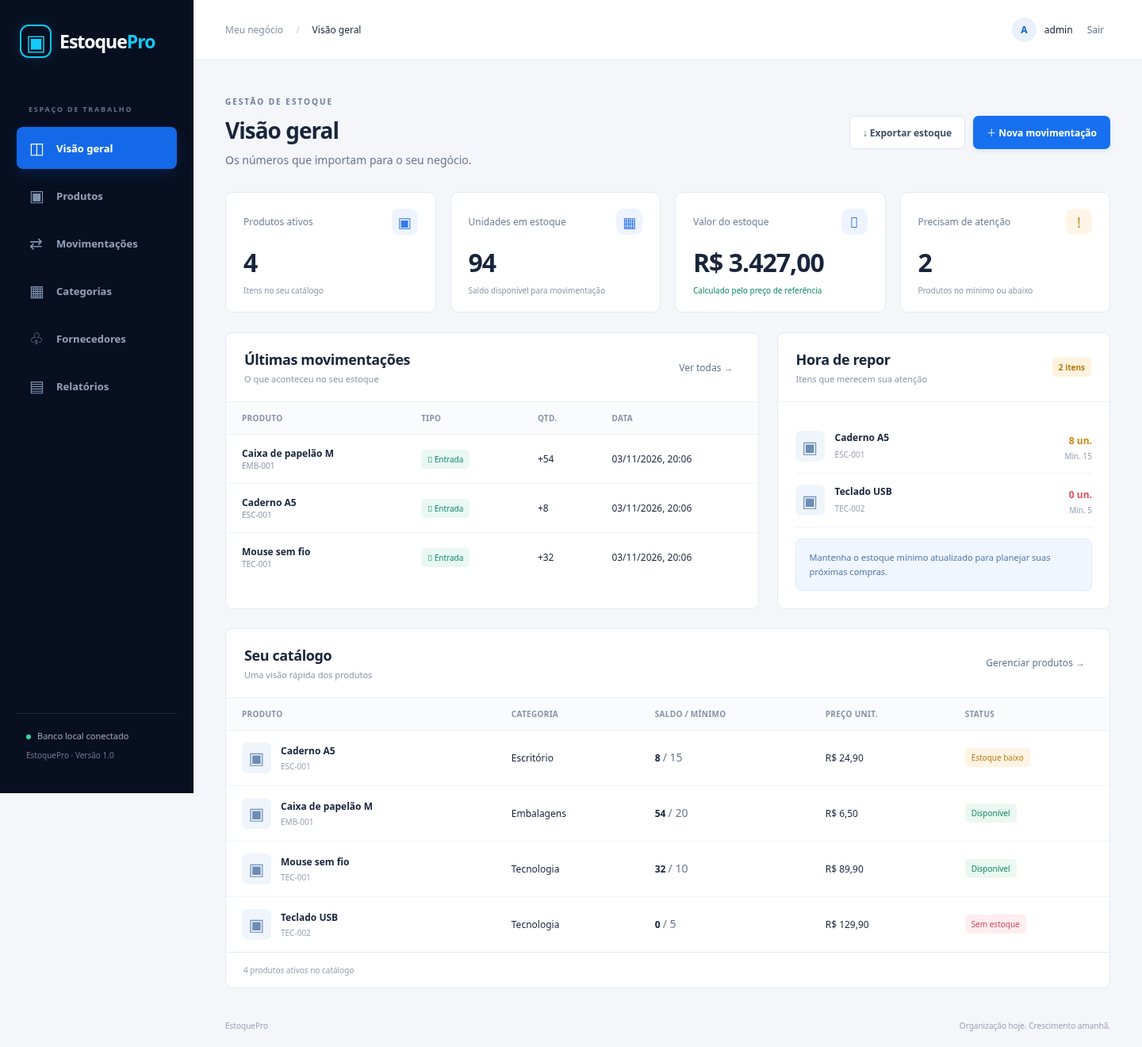
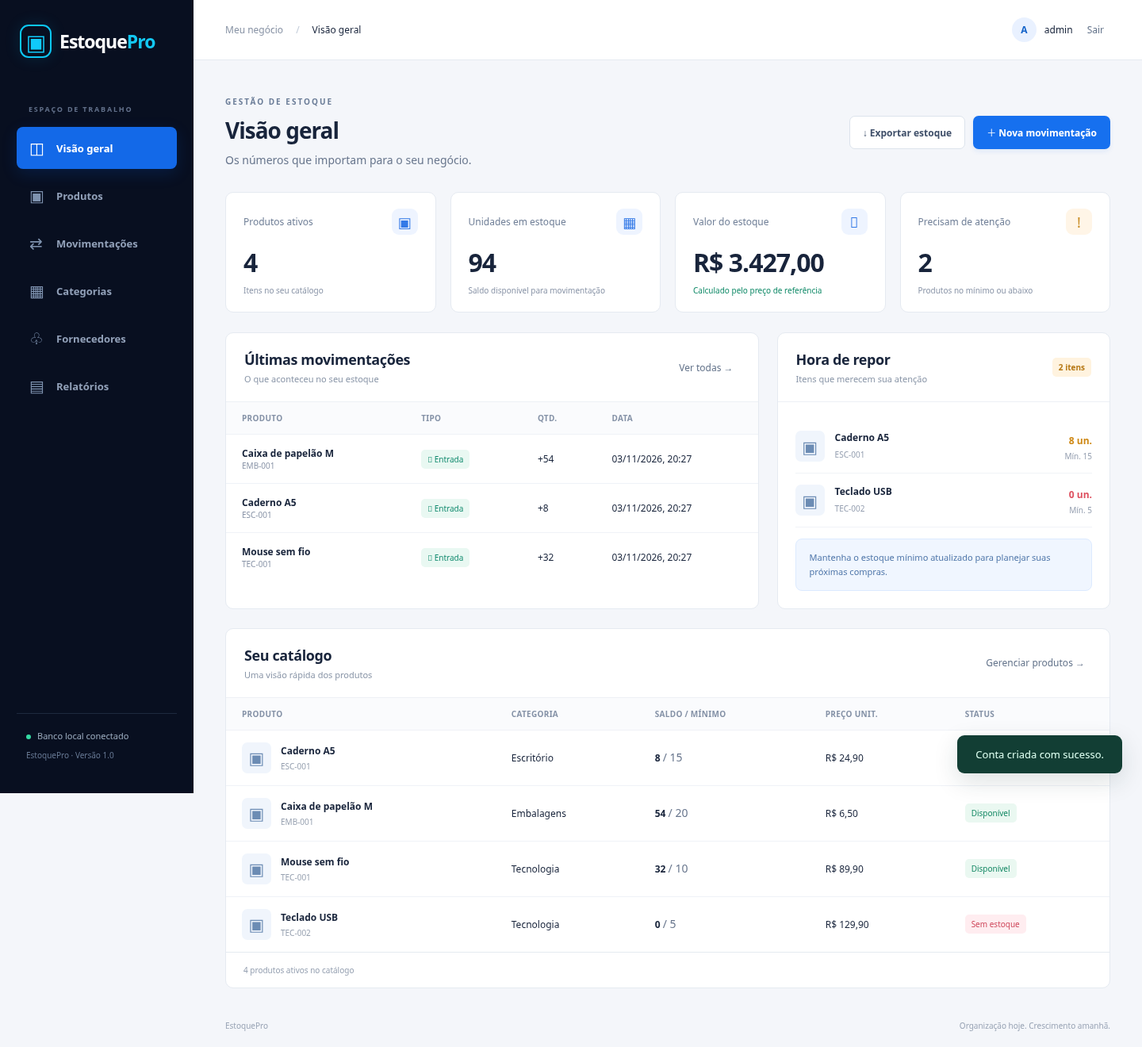
fix: corrigir acesso demo existente e adicionar cadastro de usuarios

Changed region(s): [[0.8125, 0.6833, 1.0, 0.7455]]

diff --git a/src/estoquepro/static/style.css b/src/estoquepro/static/style.css
@@ -1,1 +1,3 @@
 :root{font-family:Inter,ui-sans-serif,system-ui,-apple-system,BlinkMacSystemFont,"Segoe UI",sans-serif;color:#18243b;background:#f4f6fa;font-synthesis:none;--blue:#1670ef;--navy:#080f20;--muted:#68768d;--line:#e5eaf1}*{box-sizing:border-box}body{margin:0}button,input,select{font:inherit}button,a,input,select{outline-offset:4px}button,a{touch-action:manipulation}button{cursor:pointer}a{color:inherit;text-decoration:none}[hidden]{display:none!important}.brand{display:flex;align-items:center;gap:10px;font-size:23px;font-weight:750;letter-spacing:-1px;color:white}.brand strong{color:#13c8f3}.brand-mark{display:grid;place-items:center;border:2px solid #0cc8f6;color:#10cafa;border-radius:11px;font-size:27px;width:40px;height:42px;box-shadow:0 0 20px #09cafa20}.eyebrow{font-size:10px!important;font-weight:800;letter-spacing:2px;color:#6b7d98;margin:0 0 10px}.muted{color:var(--muted);font-size:14px;line-height:1.6}.sidebar{width:244px;background:var(--navy);color:#91a0b8;position:fixed;inset:0 auto 0 0;padding:31px 21px;display:flex;flex-direction:column}.sidebar .brand{margin:0 0 49px 4px}.nav-caption{font-size:9px;font-weight:700;letter-spacing:1.8px;padding-left:15px;margin-bottom:16px;color:#62708a}nav{display:grid;gap:7px}nav a{display:flex;align-items:center;gap:14px;font-size:13px;font-weight:550;padding:13px 16px;border-radius:8px}nav a span{font-size:20px;width:20px;color:#7e92af}nav a:hover{background:#131f36;color:white}nav a.active{background:#1369e8;color:white;box-shadow:0 6px 20px #006eff26}nav a.active span{color:white}.sidebar-bottom{margin-top:auto;padding:20px 12px 0;border-top:1px solid #1d293e;font-size:10px;color:#677994}.live-dot{font-size:11px;color:#9babbe}.live-dot:before{content:"";display:inline-block;width:6px;height:6px;border-radius:50%;background:#34d9a3;margin-right:8px}main{margin-left:244px;min-height:100vh;display:flex;flex-direction:column}.topbar{height:76px;background:white;border-bottom:1px solid var(--line);padding:0 40px;display:flex;justify-content:space-between;align-items:center;font-size:12px}.breadcrumb{color:#8893a5}.slash{margin:0 16px;color:#c2cbd8}.account{display:flex;align-items:center;gap:10px}.avatar{display:grid;place-items:center;width:31px;height:31px;border-radius:50%;background:#e9f1ff;color:#1463c9;font-weight:750}.text-button{border:0;background:none;color:#64748b;font-size:12px;padding:8px}.content{padding:35px 40px 20px;max-width:1600px;width:100%;margin:0 auto;flex:1}.page-heading{display:flex;align-items:center;justify-content:space-between;gap:20px;margin-bottom:29px}h1{font-size:28px;letter-spacing:-1px;margin:0;font-weight:720}.page-heading .muted{margin:8px 0 0}h2{font-size:18px;letter-spacing:-.4px;margin:0}h3{font-size:14px;margin:0}.actions{display:flex;gap:10px}.primary,.secondary{display:inline-flex;align-items:center;justify-content:center;gap:10px;border-radius:7px;padding:11px 16px;font-size:12px;font-weight:650;border:1px solid transparent}.primary{background:var(--blue);color:white;box-shadow:0 3px 6px #0869e817}.primary:hover{background:#095dd3}.secondary{background:white;border-color:#dce3ec;color:#40506a}.secondary:hover{background:#f2f5fa}button:disabled{opacity:.55;cursor:wait}.metrics{display:grid;grid-template-columns:repeat(4,1fr);gap:18px;margin-bottom:25px}.metric{background:white;border:1px solid var(--line);border-radius:10px;padding:20px 22px}.metric-top{display:flex;justify-content:space-between;align-items:center;color:#718098;font-size:12px}.metric-icon{border-radius:9px;background:#eef4ff;color:#3379e7;width:33px;height:33px;display:grid;place-items:center;font-size:18px}.metric-icon.amber{background:#fff5e7;color:#c88b21}.metric-number{font-size:28px;font-weight:750;letter-spacing:-1px;margin:13px 0 7px;white-space:nowrap}.metric-note{font-size:10px;color:#8a95a8}.metric-note.green{color:#128b69}.dashboard-grid{display:grid;grid-template-columns:1.6fr 1fr;gap:23px;margin-bottom:24px}.panel{background:white;border:1px solid var(--line);border-radius:10px;overflow:hidden}.panel-heading{display:flex;justify-content:space-between;align-items:center;padding:21px 23px;border-bottom:1px solid #edf0f5;gap:12px}.panel-heading p{font-size:11px;color:#8a96a8;margin:5px 0 0}.panel-body{padding:22px}.chip{border-radius:5px;background:#fff3df;color:#b77916;font-size:10px;font-weight:700;padding:5px 8px;white-space:nowrap}.stock-alert{display:flex;align-items:center;gap:13px;padding:14px 0;border-bottom:1px solid #f0f3f7}.stock-alert:last-child{border:0}.product-icon{display:grid;place-items:center;width:37px;height:39px;flex-shrink:0;border-radius:7px;background:#f0f5fc;color:#6c8cb4;font-size:21px}.stock-alert strong{font-size:12px;display:block;font-weight:650}.stock-alert small{font-size:10px;color:#96a0b1}.stock-alert .stock-amount{margin-left:auto;text-align:right}.stock-amount b{color:#cf8a18;font-size:12px}.stock-amount small{display:block;margin-top:3px}.stock-amount.zero b{color:#de5261}.notice{background:#f0f6ff;border:1px solid #dceaff;border-radius:8px;padding:14px 17px;font-size:11px;color:#5077aa;margin-top:14px;line-height:1.6}.table-wrap{overflow-x:auto}table{width:100%;border-collapse:collapse;text-align:left;font-size:12px}th{font-weight:550;font-size:10px;letter-spacing:.3px;color:#8592a7;background:#fafbfd;padding:13px 20px;white-space:nowrap}td{padding:15px 20px;border-top:1px solid #eff2f7;vertical-align:middle}tbody tr:hover{background:#fcfdff}.product-cell{display:flex;align-items:center;gap:12px}.product-cell strong{display:block;font-size:12px}.product-cell small{display:block;color:#98a2b1;font-size:10px;margin-top:4px}.badge{display:inline-block;font-size:10px;border-radius:5px;padding:5px 8px;white-space:nowrap}.badge.ok{color:#148864;background:#eaf8f1}.badge.low{color:#b97a1c;background:#fff4e3}.badge.zero{color:#cf4a5d;background:#ffedf0}.badge.in{color:#138b6f;background:#e9f8f2}.badge.out{color:#d57532;background:#fff2e7}.table-footer{font-size:10px;color:#95a0b1;padding:15px 22px;border-top:1px solid var(--line)}.toolbar{display:flex;gap:12px;padding:18px 22px;border-bottom:1px solid var(--line);flex-wrap:wrap}.toolbar input{flex:1;min-width:170px}.toolbar select{width:auto;max-width:240px}.toolbar label{display:flex;align-items:center;gap:7px;font-size:12px;color:#718096;margin:0;white-space:nowrap}.toolbar input[type=checkbox]{width:auto;min-width:0}.row-actions{display:flex;gap:9px}.row-actions button{background:transparent;border:0;color:#2879df;font-size:11px;padding:5px}.row-actions button.danger{color:#c8596a}.empty{padding:42px 20px;text-align:center;color:#7f8ea4;font-size:13px;line-height:1.7}.empty b{display:block;color:#445875;font-size:15px;margin-bottom:8px}.loading{padding:40px;color:#6e86aa}.summary-banner{border-radius:10px;padding:25px;background:linear-gradient(115deg,#0d234b,#134b8b);color:white;display:flex;justify-content:space-between;align-items:center;margin-bottom:24px}.summary-banner p{font-size:12px;line-height:1.8;color:#abc5e6;margin:8px 0 0}.summary-banner .eyebrow{color:#71caf3}.report-card{padding:27px;max-width:760px}.report-card p{color:#7a879c;font-size:13px;line-height:1.8;margin:13px 0 22px}.lookup-grid{display:grid;grid-template-columns:repeat(3,1fr);gap:16px}.lookup-card{padding:23px;background:white;border:1px solid var(--line);border-radius:10px;display:flex;align-items:center;gap:15px}.lookup-card p{font-size:11px;color:#8b99ac;margin:6px 0 0}footer{padding:20px 40px;color:#99a4b5;font-size:10px;display:flex;justify-content:space-between}label{display:grid;gap:7px;font-size:12px;font-weight:600;color:#506079;margin:16px 0}input,select{border:1px solid #dce3ee;border-radius:6px;padding:11px 12px;background:white;color:#263850;width:100%;min-width:0}input:focus,select:focus{border-color:#3181f3;outline:2px solid #3181f32a}input::placeholder{color:#acb5c4;font-size:12px}.form-grid{display:grid;grid-template-columns:1fr 1fr;gap:0 16px}.form-help{font-size:11px;color:#8797ad;line-height:1.7}.error{font-size:12px;color:#c73e54;line-height:1.5;min-height:0}.error:empty{display:none}dialog{border:1px solid var(--line);border-radius:14px;padding:0;width:520px;max-width:calc(100vw - 30px);box-shadow:0 30px 100px #05122940;max-height:90vh;overflow:auto}dialog::backdrop{background:#060f24a3;backdrop-filter:blur(3px)}dialog form{padding:27px}.modal-heading{display:flex;justify-content:space-between;align-items:start;margin-bottom:18px}.modal-footer{display:flex;justify-content:flex-end;gap:10px;margin-top:24px;padding-top:20px;border-top:1px solid var(--line)}.icon-button{border:0;background:#f0f4f9;color:#7d8ba1;width:30px;height:30px;border-radius:7px;font-size:23px}.toast{position:fixed;bottom:25px;right:25px;background:#123e34;color:#dcfff0;padding:15px 23px;border-radius:9px;box-shadow:0 10px 30px #122e3325;z-index:20;font-size:13px}.toast.failure{background:#762538}.login-screen{display:grid;grid-template-columns:1.1fr 1fr;min-height:100vh}.login-intro{background:radial-gradient(ellipse at 70% 60%,#073b6f55,transparent 60%),#080f20;color:white;padding:60px 12%;display:flex;flex-direction:column;align-items:flex-start}.login-intro .brand{margin-bottom:70px}.login-intro .eyebrow{color:#15c1ec}.login-intro h1{font-size:44px;line-height:1.15;letter-spacing:-1.8px}.login-intro>p:not(.eyebrow){font-size:14px;line-height:1.9;color:#91a4c0;max-width:330px}.login-intro>small{margin-top:auto;color:#627997;font-size:10px;padding-top:25px}.intro-art{width:100%;max-width:340px;height:220px;margin:20px 0;position:relative;border:1px solid #123c67;border-radius:20px;background:linear-gradient(135deg,#13356655,#06234055);display:flex;align-items:center;justify-content:space-evenly}.intro-art>span{font-size:130px;color:#13bde8;line-height:1}.art-bars{height:100px;display:flex;align-items:end;gap:9px}.art-bars i{display:block;width:18px;background:linear-gradient(#12d8e5,#0669ee);border-radius:4px}.art-bars i:nth-child(1){height:35%}.art-bars i:nth-child(2){height:58%}.art-bars i:nth-child(3){height:78%}.art-bars i:nth-child(4){height:100%}.intro-art>b{position:absolute;bottom:15px;left:22px;font-size:11px;color:#68d4b4;letter-spacing:.5px}.login-panel{display:flex;align-items:center;justify-content:center;padding:50px;background:white}.login-panel form{width:100%;max-width:355px}.login-panel h2{font-size:27px}.login-panel .primary{width:100%;justify-content:space-between;margin-top:12px;font-size:13px;padding:14px 17px}.login-panel .muted{margin-bottom:30px}.login-foot{text-align:center;color:#9fa9b8;font-size:10px;margin-top:28px}@media(min-width:1400px){.content{padding-top:45px}.metric-number{font-size:32px}}@media(max-width:1100px){.sidebar{width:205px;padding-left:13px;padding-right:13px}.sidebar .brand{font-size:20px}main{margin-left:205px}.content{padding:28px 24px}.topbar{padding:0 24px}.metrics{gap:11px}.metric{padding:17px 15px}.metric-number{font-size:23px}.dashboard-grid{grid-template-columns:1fr}.lookup-grid{grid-template-columns:repeat(2,1fr)}}@media(max-width:720px){.sidebar{position:static;width:auto;padding:17px 16px}.sidebar .brand{margin:0 0 17px}.nav-caption,.sidebar-bottom{display:none}nav{display:flex;overflow:auto;gap:5px}nav a{font-size:11px;padding:9px 10px;white-space:nowrap}nav a span{font-size:17px;width:auto}main{margin:0}.topbar{height:58px;padding:0 18px}.content{padding:25px 16px}.page-heading{align-items:flex-start;flex-direction:column;gap:16px}h1{font-size:26px}.metrics{grid-template-columns:repeat(2,1fr);gap:12px}.metric-number{font-size:26px}.metric-top{font-size:11px}.dashboard-grid{gap:17px}.panel-heading{padding:18px 16px}.panel-body{padding:15px}.summary-banner{padding:21px;gap:20px}.summary-banner .secondary{white-space:nowrap}.summary-banner h2{font-size:16px}.lookup-grid{grid-template-columns:1fr}.toolbar{padding:15px}.toolbar select{flex:1}.form-grid{grid-template-columns:1fr}footer{padding:20px 16px;gap:20px;font-size:9px}.login-screen{grid-template-columns:1fr}.login-intro{padding:28px}.login-intro .brand{margin:0}.login-intro h1,.login-intro>p,.intro-art,.login-intro>small{display:none}.login-panel{padding:45px 28px}.toast{left:16px;right:16px;bottom:16px}.account{font-size:11px}.breadcrumb{display:none}.slash{display:none}}
+
+.auth-card{width:100%;max-width:355px}.auth-tabs{display:flex;gap:8px;border-bottom:1px solid var(--line);margin-bottom:30px}.auth-tabs button{flex:1;background:none;border:0;border-bottom:3px solid transparent;padding:13px;color:var(--muted);font-weight:650;font-size:13px}.auth-tabs button[aria-selected="true"]{color:var(--blue);border-bottom-color:var(--blue)}

diff --git a/src/estoquepro/static/index.html b/src/estoquepro/static/index.html
@@ -4,7 +4,7 @@
 <body>
 <section id="login-screen" class="login-screen">
   <div class="login-intro"><div class="brand"><span class="brand-mark">▣</span><span>Estoque<strong>Pro</strong></span></div><p class="eyebrow">CONTROLE QUE GERA CONFIANÇA</p><h1>Seu estoque.<br>Uma visão completa.</h1><p>Organize produtos, acompanhe movimentações e saiba quando repor. Tudo em um só lugar.</p><div class="intro-art" aria-hidden="true"><span aria-hidden="true">▣</span><div class="art-bars"><i></i><i></i><i></i><i></i></div><b>✓ Estoque sob controle</b></div><small>Projeto acadêmico A3 · Engenharia de Software</small></div>
-  <div class="login-panel"><form id="login-form"><p class="eyebrow">BEM-VINDO AO ESTOQUEPRO</p><h2>Acesse seu painel</h2><p class="muted">Entre para gerenciar seu estoque.</p><label>Usuário<input name="username" autocomplete="username" required maxlength="80" placeholder="Seu usuário"></label><label>Senha<input type="password" name="password" autocomplete="current-password" required maxlength="256" placeholder="Sua senha"></label><p id="login-error" class="error" role="alert"></p><button class="primary" type="submit">Entrar no sistema <span>→</span></button><p class="login-foot">Ambiente local · Dados armazenados em SQLite</p></form></div>
+  <div class="login-panel"><div class="auth-card"><div class="auth-tabs" role="tablist" aria-label="Acesso ao sistema"><button type="button" id="login-tab" role="tab" aria-selected="true" aria-controls="login-form">Entrar</button><button type="button" id="register-tab" role="tab" aria-selected="false" aria-controls="register-form" tabindex="-1">Cadastro</button></div><form id="login-form" role="tabpanel" aria-labelledby="login-tab"><p class="eyebrow">BEM-VINDO AO ESTOQUEPRO</p><h2>Acesse seu painel</h2><p class="muted">Entre para gerenciar seu estoque.</p><label>Usuário<input name="username" autocomplete="username" required maxlength="80" placeholder="Seu usuário"></label><label>Senha<input type="password" name="password" autocomplete="current-password" required maxlength="256" placeholder="Sua senha"></label><p id="login-error" class="error" role="alert"></p><button class="primary" type="submit">Entrar no sistema <span>→</span></button><p class="login-foot">Ambiente local · Dados armazenados em SQLite</p></form><form id="register-form" role="tabpanel" aria-labelledby="register-tab" hidden><p class="eyebrow">SEU PRIMEIRO ACESSO</p><h2>Crie sua conta</h2><p class="muted">Cadastre um usuário para acessar o estoque deste negócio.</p><label>Usuário<input name="username" autocomplete="username" required minlength="3" maxlength="32" pattern="[a-zA-Z0-9][a-zA-Z0-9_.-]{2,31}" placeholder="Ex.: seu.nome"></label><p class="form-help">De 3 a 32 caracteres, sem espaços ou acentos.</p><label>Senha<input type="password" name="password" autocomplete="new-password" required minlength="8" maxlength="256" placeholder="Mínimo de 8 caracteres"></label><label>Confirmar senha<input type="password" name="confirm_password" autocomplete="new-password" required minlength="8" maxlength="256" placeholder="Repita sua senha"></label><p id="register-error" class="error" role="alert"></p><button class="primary" type="submit">Criar conta e entrar <span aria-hidden="true">→</span></button><p class="login-foot">Contas deste ambiente compartilham o mesmo estoque.</p></form></div></div>
 </section>
 <div id="app" class="app" hidden>
   <aside class="sidebar"><a class="brand" href="#dashboard"><span class="brand-mark">▣</span><span>Estoque<strong>Pro</strong></span></a><p class="nav-caption">ESPAÇO DE TRABALHO</p><nav aria-label="Navegação principal"><a href="#dashboard" data-page="dashboard"><span aria-hidden="true">◫</span>Visão geral</a><a href="#products" data-page="products"><span aria-hidden="true">▣</span>Produtos</a><a href="#movements" data-page="movements"><span aria-hidden="true">⇄</span>Movimentações</a><a href="#categories" data-page="categories"><span aria-hidden="true">▦</span>Categorias</a><a href="#suppliers" data-page="suppliers"><span aria-hidden="true">♧</span>Fornecedores</a><a href="#reports" data-page="reports"><span aria-hidden="true">▤</span>Relatórios</a></nav><div class="sidebar-bottom"><div class="live-dot">Banco local conectado</div><p>EstoquePro · Versão 1.0</p></div></aside>

diff --git a/src/estoquepro/static/app.js b/src/estoquepro/static/app.js
@@ -10,7 +10,7 @@ async function api(path, method = 'GET', body) {
   const response = await fetch('/api/' + path, {method, headers: {'Content-Type': 'application/json', 'X-CSRF-Token': state.csrf}, body: body === undefined ? undefined : JSON.stringify(body)});
   const data = await response.json();
   if (!response.ok) {
-    if (response.status === 401 && path !== 'login') showLogin();
+    if (response.status === 401 && !['login', 'register'].includes(path)) showLogin();
     throw new Error(data.error || 'Não foi possível concluir a operação.');
   }
   return data;
@@ -19,15 +19,42 @@ function toast(message, failure = false) {
   const el = $('#toast'); el.textContent = message; el.className = 'toast' + (failure ? ' failure' : ''); el.hidden = false;
   clearTimeout(toast.timer); toast.timer = setTimeout(() => el.hidden = true, 5000);
 }
-function showLogin() { $('#app').hidden = true; $('#login-screen').hidden = false; state.csrf = ''; $('#modal').close(); }
+function showLogin() { $('#app').hidden = true; $('#login-screen').hidden = false; state.csrf = ''; selectAuthTab(false); $('#modal').close(); }
 function enter(session) {
-  state.csrf = session.csrf; $('#account-name').textContent = session.user.username;
+  state.csrf = session.csrf; $('#account-name').textContent = session.user.username; $('.avatar').textContent = session.user.username[0].toUpperCase();
   $('#login-screen').hidden = true; $('#app').hidden = false; loadPage();
 }
 $('#login-form').addEventListener('submit', async (event) => {
   event.preventDefault(); const button = event.target.querySelector('button'); button.disabled = true; $('#login-error').textContent = '';
   try { const data = Object.fromEntries(new FormData(event.target)); const session = await api('login', 'POST', data); event.target.reset(); enter(session); }
   catch (err) { $('#login-error').textContent = err.message; } finally { button.disabled = false; }
+});
+function selectAuthTab(register) {
+  $('#login-form').hidden = register; $('#register-form').hidden = !register;
+  for (const id of ['login', 'register']) {
+    const active = (id === 'register') === register;
+    $('#' + id + '-tab').setAttribute('aria-selected', String(active));
+    $('#' + id + '-tab').tabIndex = active ? 0 : -1;
+  }
+  $('#login-error').textContent = ''; $('#register-error').textContent = '';
+}
+$('#login-tab').onclick = () => selectAuthTab(false);
+$('#register-tab').onclick = () => selectAuthTab(true);
+$('.auth-tabs').addEventListener('keydown', event => {
+  if (['ArrowLeft', 'ArrowRight', 'Home', 'End'].includes(event.key)) {
+    event.preventDefault();
+    const register = event.key === 'End' || (event.key !== 'Home' && $('#register-form').hidden);
+    selectAuthTab(register); $('#' + (register ? 'register' : 'login') + '-tab').focus();
+  }
+});
+$('#register-form').addEventListener('input', () => { $('#register-error').textContent = ''; });
+$('#register-form').addEventListener('submit', async event => {
+  event.preventDefault(); const button = event.target.querySelector('button');
+  const data = Object.fromEntries(new FormData(event.target)); $('#register-error').textContent = '';
+  if (data.password !== data.confirm_password) { $('#register-error').textContent = 'As senhas não coincidem.'; return; }
+  button.disabled = true;
+  try { const session = await api('register', 'POST', data); event.target.reset(); selectAuthTab(false); enter(session); toast('Conta criada com sucesso.'); }
+  catch (err) { $('#register-error').textContent = err.message; } finally { button.disabled = false; }
 });
 $('#logout').addEventListener('click', async () => { try { await api('logout', 'POST', {}); showLogin(); } catch (e) { toast(e.message, true); } });
 window.addEventListener('hashchange', () => { if (state.csrf) loadPage(); });

diff --git a/tests/test_inventory.py b/tests/test_inventory.py
@@ -41,6 +41,34 @@ class InventoryTests(unittest.TestCase):
         self.assertTrue(check_password('segredo', encoded))
         self.assertFalse(check_password('outro', encoded))
 
+    def test_register_validation_and_duplicate(self):
+        data = dict(username='Novo.Usuario', password='SenhaNova123', confirm_password='SenhaNova123')
+        user = self.db.register(data)
+        self.assertEqual(user['username'], 'novo.usuario')
+        self.assertEqual(self.db.authenticate('novo.usuario', 'SenhaNova123'), user)
+        with self.assertRaisesRegex(ValidationError, 'já está cadastrado'):
+            self.db.register(data)
+        for changes in [dict(username='ab'), dict(username='nome com espaços'), dict(username='<script>'),
+                        dict(password='curta', confirm_password='curta'), dict(confirm_password='diferente')]:
+            with self.subTest(changes=changes), self.assertRaises(ValidationError):
+                self.db.register({**data, 'username': 'outro.usuario', **changes})
+
+    def test_legacy_demo_migration_preserves_data(self):
+        with self.db.connect() as db:
+            db.execute("UPDATE users SET password_hash=? WHERE username='admin'", (hash_password('EstoquePro@2026'),))
+        before = self.db.products()
+        self.assertTrue(self.db.configure_demo_access())
+        self.assertIsNotNone(self.db.authenticate('admin', 'admin123'))
+        self.assertIsNone(self.db.authenticate('admin', 'EstoquePro@2026'))
+        self.assertEqual(self.db.products(), before)
+        self.assertFalse(self.db.configure_demo_access())
+
+    def test_demo_preserves_custom_password_until_explicit_reset(self):
+        self.assertFalse(self.db.configure_demo_access())
+        self.assertIsNotNone(self.db.authenticate('admin', 'UmaSenhaForte123'))
+        self.assertTrue(self.db.configure_demo_access(reset=True))
+        self.assertIsNotNone(self.db.authenticate('admin', 'admin123'))
+
     def test_product_create_update_search(self):
         product = self.db.products()[0]
         self.assertEqual(product['quantity'], 0)
@@ -254,6 +282,31 @@ class HttpTests(unittest.TestCase):
         for raw in ['invalid', '[]', '{', '"string"']:
             with self.subTest(raw=raw):
                 self.assertEqual(self.request('/api/products', 'POST', raw=raw)[0], 400)
+
+    def test_register_login_and_shared_inventory(self):
+        data = dict(username='Conta.HTTP', password='NovaSenhaHTTP123', confirm_password='NovaSenhaHTTP123')
+        status, headers, body = self.request('/api/register', 'POST', data)
+        self.assertEqual(status, 201)
+        user = json.loads(body)['user']
+        self.assertEqual(user['username'], 'conta.http')
+        self.cookie = headers['Set-Cookie'].split(';')[0]
+        self.csrf = json.loads(body)['csrf']
+        self.assertEqual(self.request('/api/dashboard')[0], 200)
+        self.assertEqual(self.request('/api/register', 'POST', data)[0], 400)
+        self.assertEqual(self.request('/api/logout', 'POST', {})[0], 200)
+        status, _, body = self.request('/api/login', 'POST', dict(username=' CONTA.HTTP ', password='NovaSenhaHTTP123'))
+        self.assertEqual(status, 200)
+        self.assertEqual(json.loads(body)['user'], user)
+
+    def test_register_rejects_invalid_data_and_cross_site(self):
+        data = dict(username='valid.user', password='Password123', confirm_password='different')
+        self.assertEqual(self.request('/api/register', 'POST', data)[0], 400)
+        connection = http.client.HTTPConnection('127.0.0.1', self.server.server_port, timeout=5)
+        connection.request('POST', '/api/register', json.dumps(data), {'Content-Type': 'application/json', 'Sec-Fetch-Site': 'cross-site'})
+        response = connection.getresponse()
+        self.assertEqual(response.status, 403)
+        response.read()
+        connection.close()
 
     def test_csv_is_authenticated_and_formula_safe(self):
         self.assertEqual(self.request('/api/report.csv')[0], 401)

diff --git a/src/estoquepro/server.py b/src/estoquepro/server.py
@@ -110,7 +110,7 @@ class Handler(BaseHTTPRequestHandler):
         if method == 'GET' and path in ('/', '/app.js', '/style.css'):
             filename, mime = {'/': ('index.html', 'text/html'), '/app.js': ('app.js', 'text/javascript'), '/style.css': ('style.css', 'text/css')}[path]
             return self.send(200, (ROOT / 'src/estoquepro/static' / filename).read_bytes(), mime + '; charset=utf-8')
-        if method == 'POST' and path == '/api/login':
+        if method == 'POST' and path in ('/api/login', '/api/register'):
             # A senha e o token só transitam em JSON/cookie, nunca na URL.
             if self.headers.get('Sec-Fetch-Site') == 'cross-site':
                 return self.send(403, {'error': 'Origem não permitida.'})
@@ -126,7 +126,12 @@ class Handler(BaseHTTPRequestHandler):
                 if attempts[1] >= 10:
                     return self.send(429, {'error': 'Muitas tentativas. Aguarde um minuto.'})
                 self.server.attempts[ip] = (attempts[0], attempts[1]+1)
-            user = db.authenticate(username, password)
+            if path == '/api/register':
+                if self.server.server_address[0] not in ('127.0.0.1', '::1'):
+                    return self.send(403, {'error': 'Cadastro de usuários disponível apenas na execução local.'})
+                user = db.register(data)
+            else:
+                user = db.authenticate(username.strip().lower(), password)
             if not user:
                 return self.send(401, {'error': 'Usuário ou senha incorretos.'})
             token, csrf = secrets.token_urlsafe(32), secrets.token_urlsafe(32)
@@ -135,7 +140,7 @@ class Handler(BaseHTTPRequestHandler):
                 self.server.sessions.pop(old_token, None)
                 self.server.sessions[token] = {'user': user, 'csrf': csrf, 'expires': time.time()+28800}
             secure = '; Secure' if os.environ.get('ESTOQUEPRO_SECURE_COOKIE') == '1' else ''
-            return self.send(200, {'user': user, 'csrf': csrf}, headers={'Set-Cookie': f'session={token}; HttpOnly; SameSite=Strict; Path=/; Max-Age=28800{secure}'})
+            return self.send(201 if path == '/api/register' else 200, {'user': user, 'csrf': csrf}, headers={'Set-Cookie': f'session={token}; HttpOnly; SameSite=Strict; Path=/; Max-Age=28800{secure}'})
         token, session = self.session()
         if not session:
             return self.send(401, {'error': 'Entre para continuar.'})
@@ -195,6 +200,7 @@ def main():
     parser.add_argument('--port', type=int, default=8000)
     parser.add_argument('--database', default=str(ROOT / 'data/estoquepro.sqlite3'))
     parser.add_argument('--demo', action='store_true', help='Dados fictícios e senha inicial de demonstração')
+    parser.add_argument('--reset-demo-admin', action='store_true', help='Redefinir explicitamente admin para admin123 (somente com --demo local)')
     args = parser.parse_args()
     password = os.environ.get('ESTOQUEPRO_ADMIN_PASSWORD')
     inventory = Inventory(args.database)
@@ -209,7 +215,11 @@ def main():
         parser.error('A senha inicial deve ter de 12 a 256 caracteres.')
     if args.host != '127.0.0.1' and args.demo:
         parser.error('O modo demo só permite --host 127.0.0.1.')
+    if args.reset_demo_admin and (not args.demo or password):
+        parser.error('--reset-demo-admin exige --demo e não pode ser combinado com ESTOQUEPRO_ADMIN_PASSWORD.')
     inventory.initialize(password or 'admin123', args.demo)
+    if args.demo and not password and inventory.configure_demo_access(args.reset_demo_admin):
+        print('Acesso de demonstração do administrador atualizado.', flush=True)
     print(f'EstoquePro em {args.host}:{args.port} — Ctrl+C para encerrar.', flush=True)
     server = Application((args.host, args.port), inventory)
     try:

diff --git a/tests/browser_smoke.py b/tests/browser_smoke.py
@@ -26,8 +26,22 @@ def run():
                 errors = []
                 page.on('pageerror', lambda error: errors.append(str(error)))
                 page.goto(f'http://127.0.0.1:{server.server_port}')
-                page.get_by_label('Usuário', exact=True).fill('admin')
-                page.get_by_label('Senha', exact=True).fill('SenhaNavegador123')
+                page.get_by_role('tab', name='Cadastro', exact=True).click()
+                registration = page.locator('#register-form')
+                registration.get_by_label('Usuário', exact=True).fill('conta.navegador')
+                registration.get_by_label('Senha', exact=True).fill('NovaSenha123')
+                registration.get_by_label('Confirmar senha', exact=True).fill('OutraSenha123')
+                registration.get_by_role('button', name='Criar conta e entrar').click()
+                expect(page.locator('#register-error')).to_have_text('As senhas não coincidem.')
+                registration.get_by_label('Confirmar senha', exact=True).fill('NovaSenha123')
+                page.screenshot(path=str(ROOT / 'docs/prototipos/cadastro-desktop.png'), full_page=True)
+                registration.get_by_role('button', name='Criar conta e entrar').click()
+                expect(page.get_by_role('heading', name='Seu catálogo')).to_be_visible()
+                expect(page.locator('#account-name')).to_have_text('conta.navegador')
+                page.get_by_role('button', name='Sair', exact=True).click()
+                expect(page.get_by_role('button', name='Entrar no sistema')).to_be_visible()
+                page.locator('#login-form').get_by_label('Usuário', exact=True).fill('admin')
+                page.locator('#login-form').get_by_label('Senha', exact=True).fill('SenhaNavegador123')
                 page.get_by_role('button', name='Entrar no sistema').click()
                 expect(page.get_by_role('heading', name='Seu catálogo')).to_be_visible()
                 page.screenshot(path=str(ROOT / 'docs/prototipos/dashboard-desktop.png'), full_page=True)
@@ -97,7 +111,7 @@ def run():
                 expect(page.get_by_role('button', name='Entrar no sistema')).to_be_visible()
                 assert not errors, errors
                 browser.close()
-                print('PASS: login, dashboard, mobile, categoria, fornecedor, produto, edição, busca, entrada, saída inválida, saída válida, arquivo, CSV, sessão e logout; zero erros JavaScript.')
+                print('PASS: cadastro, confirmação de senha, sessão do novo usuário, login, dashboard, mobile, categoria, fornecedor, produto, edição, busca, entrada, saída inválida, saída válida, arquivo, CSV, sessão e logout; zero erros JavaScript.')
         finally:
             server.shutdown()
             server.server_close()

diff --git a/src/estoquepro/domain.py b/src/estoquepro/domain.py
@@ -92,6 +92,31 @@ class Inventory:
                 return {'id': user['id'], 'username': user['username']}
         return None
 
+    def register(self, data):
+        username = text(data.get('username'), 'Usuário', 32).lower()
+        if not re.fullmatch(r'[a-z0-9][a-z0-9_.-]{2,31}', username):
+            raise ValidationError('Usuário: use de 3 a 32 letras sem acentos, números, ponto, hífen ou sublinhado.')
+        password = data.get('password')
+        if not isinstance(password, str) or not 8 <= len(password) <= 256:
+            raise ValidationError('Senha: use de 8 a 256 caracteres.')
+        if password != data.get('confirm_password'):
+            raise ValidationError('As senhas não coincidem.')
+        with self.connect() as db:
+            if db.execute('SELECT id FROM users WHERE lower(username)=?', (username,)).fetchone():
+                raise ValidationError('Este usuário já está cadastrado. Escolha outro nome ou entre na sua conta.')
+            uid = db.execute('INSERT INTO users(username,password_hash) VALUES (?,?)',
+                             (username, hash_password(password))).lastrowid
+        return {'id': uid, 'username': username}
+
+    def configure_demo_access(self, reset=False):
+        """Migra só a senha demo antiga; outras senhas exigem reset local explícito."""
+        with self.connect() as db:
+            user = db.execute("SELECT id,password_hash FROM users WHERE username='admin'").fetchone()
+            if user and (reset or check_password('EstoquePro@2026', user['password_hash'])):
+                db.execute('UPDATE users SET password_hash=? WHERE id=?', (hash_password('admin123'), user['id']))
+                return True
+        return False
+
     def lookup(self, table):
         assert table in ('categories', 'suppliers')
         with self.connect() as db:

diff --git a/README.md b/README.md
@@ -20,13 +20,32 @@ $env:PYTHONPATH = "src"
 python -m estoquepro.server --demo
 ```
 
-O banco é criado em `data/estoquepro.sqlite3` e os dados permanecem após reiniciar. Dados fictícios só são inseridos se categorias, fornecedores, produtos e movimentações estiverem vazios. A senha inicial nunca é substituída em um banco já inicializado. Encerre com Ctrl+C.
+O banco é criado em `data/estoquepro.sqlite3` e os dados permanecem após reiniciar. Dados fictícios só são inseridos se categorias, fornecedores, produtos e movimentações estiverem vazios. No modo `--demo`, a senha padrão antiga do administrador é migrada para `admin123`. Senhas personalizadas são preservadas, salvo redefinição explícita descrita abaixo. Encerre com Ctrl+C.
 
 Para começar sem dados fictícios, use um banco novo e defina `ESTOQUEPRO_ADMIN_PASSWORD` com 12 a 256 caracteres por um mecanismo seguro do seu ambiente. Execute sem `--demo`; não registre senhas no Git ou em comandos compartilhados. Para separar bancos, use `--database /caminho/arquivo.sqlite3`. Isso não altera a senha de bancos existentes.
 
+## Não consigo entrar / cadastrar usuário
+
+Após atualizar o código, encerre o servidor antigo e reinicie. Para garantir o acesso **admin / admin123** no banco que você usa, execute uma vez:
+
+```bash
+PYTHONPATH=src python -m estoquepro.server --demo --reset-demo-admin
+```
+
+No Windows PowerShell:
+
+```powershell
+$env:PYTHONPATH = "src"
+python -m estoquepro.server --demo --reset-demo-admin
+```
+
+Se usa `--database`, passe **o mesmo caminho do banco existente**. O comando redefine apenas a senha de `admin`: preserva usuários, produtos, saldos e histórico. É restrito ao modo demo local e não pode ser combinado com `ESTOQUEPRO_ADMIN_PASSWORD`. Não é necessário apagar `data/` ou recriar o banco. Nos próximos inícios, basta `--demo`.
+
+Na tela inicial, selecione **Cadastro**, informe usuário, senha de pelo menos oito caracteres e confirmação. A conta é persistida e abre o painel automaticamente. Todos os usuários têm o mesmo perfil de gestão e compartilham o estoque. O cadastro pela tela só funciona quando o servidor está vinculado a loopback; não é um cadastro público para operação na Internet.
+
 ## O que funciona
 
-- Login, sessão de oito horas e logout.
+- Abas Entrar e Cadastro, criação de usuário com confirmação de senha, sessão de oito horas e logout.
 - Cadastro de categorias e fornecedores por nome.
 - Cadastro, pesquisa e edição de produtos com código único, vínculos, preço e estoque mínimo.
 - Entradas e saídas atômicas com motivo, usuário, data e saldo após a operação.
@@ -34,7 +53,7 @@ Para começar sem dados fictícios, use um banco novo e defina `ESTOQUEPRO_ADMIN
 - Painel, filtro de estoque baixo e exportação CSV do estoque ativo.
 - Interface responsiva em português, sem serviços externos de fontes ou scripts.
 
-O preço é de referência; não é um sistema fiscal ou de custeio. Há um único perfil administrador. Não há recuperação de senha, cadastro de usuários, edição de categorias/fornecedores, edição do histórico ou restauração de produto arquivado na interface.
+O preço é de referência; não é um sistema fiscal ou de custeio. Há um único perfil administrador. Não há recuperação de senha por e-mail, edição de categorias/fornecedores, edição do histórico ou restauração de produto arquivado na interface.
 
 ## Testes
 

diff --git a/docs/testes/resultado.md b/docs/testes/resultado.md
@@ -2,7 +2,7 @@
 
 Ambiente: Linux, Python 3.12.14, Node 24.22.1 para verificação sintática opcional, Playwright 1.62.0 com Chromium do sistema. Teste de navegador usa locale pt-BR e fuso America/Sao_Paulo. Dados de todos os testes são fictícios; suíte de domínio/API e navegador usa bancos temporários separados.
 
-## Unidade e integração HTTP
+## Validação inicial — unidade e integração HTTP
 
 Comando executado na raiz: `python -m unittest discover -s tests -v`.
 
@@ -69,3 +69,16 @@ Backup criado pela API SQLite com servidor em execução; as cinco tabelas foram
 ## Não executado / limitações
 
 Sem teste de carga, auditoria de segurança independente, validação em Windows/macOS, outros navegadores, teste de leitores de tela, revisão de PDF oficial, revisão no template acadêmico ou apresentação ao professor. Não se declara produção, conformidade oficial da A3 ou entrega remota. Nenhum defeito crítico conhecido foi identificado nos fluxos executados.
+
+
+## Correção de acesso e cadastro — 03/11/2026
+
+Após o relato de falha de login em outra instalação, identificou-se que a troca do padrão de senha no código não alterava bancos já criados. A alteração anterior do hash no banco desta máquina não era uma migração distribuída. A correção adiciona migração da antiga senha padrão **somente no modo demo**, preserva senhas personalizadas e disponibiliza `--demo --reset-demo-admin` para redefinição explícita local sem perda de dados.
+
+- `python -m unittest discover -s tests -v`: **25 testes executados e aprovados**, zero falhas, erros ou ignorados; 4,936 s na execução desta revisão.
+- Novos cenários: cadastro persistente, usuário normalizado/duplicado, senha e confirmação inválidas, recusa de origem cruzada, sessão automática da nova conta, login posterior, migração da senha demo antiga, preservação de senha personalizada e reset explícito.
+- `CHROMIUM_PATH=/usr/bin/chromium python tests/browser_smoke.py`: cadastro na nova aba, erro de confirmação, criação e acesso ao painel, logout e todo o fluxo existente aprovados; zero exceções JavaScript. O primeiro ensaio precisou delimitar os seletores ao formulário Entrar, pois agora há dois campos com o rótulo Usuário em painéis distintos.
+- Inicialização real com `--demo --reset-demo-admin` aplicada ao banco atual; dados de estoque preservados. Esse comando deve ser executado no mesmo banco usado pela instalação que ainda não aceita a senha. Um push não atualiza processos e bancos de outra máquina automaticamente.
+- Captura da nova tela em `docs/prototipos/cadastro-desktop.png`. As demais capturas foram regeneradas pelo teste de interface.
+
+A aba Cadastro cria usuários do mesmo negócio, com as mesmas permissões; não cria estoques separados. Cadastro aberto pela tela só é aceito quando o servidor está vinculado a loopback. A conformidade acadêmica permanece provisória.

diff --git a/docs/operacao.md b/docs/operacao.md
@@ -4,13 +4,13 @@
 
 Usar o checkout existente; as tarefas de nuvem já são isoladas, portanto não criar worktree para configurar. Na raiz do repositório, executar os comandos do README. Python 3.12+ é o único requisito obrigatório. A inicialização cria tabelas e índices sem apagar dados. Não há compilação nem download de dependências em execução.
 
-Parâmetros: `--host` (padrão `127.0.0.1`), `--port` (8000), `--database` (caminho do SQLite) e `--demo`. O modo demo recusa outro host. Para verificar prontidão, solicitar a página inicial e efetuar login seguido de consulta a `/api/dashboard`; apenas uma porta aberta não comprova funcionamento.
+Parâmetros: `--host` (padrão `127.0.0.1`), `--port` (8000), `--database` (caminho do SQLite) e `--demo`. O modo demo recusa outro host. `--reset-demo-admin`, combinado com `--demo`, redefine explicitamente o administrador para a credencial de demonstração sem alterar o catálogo ou o histórico. Ao iniciar normalmente com `--demo` e sem senha de ambiente, somente a antiga senha padrão `EstoquePro@2026` é migrada automaticamente para `admin123`; outras senhas são preservadas. Para verificar prontidão, solicitar a página inicial e efetuar login seguido de consulta a `/api/dashboard`; apenas uma porta aberta não comprova funcionamento.
 
 Configuração opcional: `ESTOQUEPRO_ADMIN_PASSWORD` define a senha inicial apenas de um banco novo; `ESTOQUEPRO_SECURE_COOKIE=1` exige transporte HTTPS do navegador para o cookie. Valores de senha devem permanecer fora dos arquivos do projeto. `PYTHONPATH=src` é necessário ao executar pelo módulo na raiz. Sessões não sobrevivem a reinícios.
 
 ## Guia do usuário
 
-1. Entrar com o usuário administrador configurado.
+1. Entrar com o usuário configurado ou selecionar Cadastro para criar conta local. Usar usuário de 3–32 letras ASCII/números/ponto/hífen/sublinhado, senha de 8–256 caracteres e confirmação idêntica. O nome é salvo em minúsculas; contas compartilham o mesmo estoque e permissões.
 2. Em Categorias, criar ao menos uma categoria. Fornecedores são opcionais e só armazenam nome.
 3. Em Produtos, criar código, nome, categoria, fornecedor opcional, preço de referência e mínimo. O saldo inicial é zero.
 4. Em Movimentações, selecionar produto, entrada ou saída, quantidade inteira positiva e motivo. Conferir antes de salvar: o histórico não é editável.
@@ -27,6 +27,7 @@ JSON em UTF-8, `Content-Type: application/json` para corpos, máximo 16 KB. Cook
 | Método | Caminho | Corpo / resultado |
 |---|---|---|
 | POST | `/api/login` | `{username,password}` → `{user,csrf}` e cookie |
+| POST | `/api/register` | `{username,password,confirm_password}` → 201, `{user,csrf}` e cookie; apenas servidor em loopback |
 | GET | `/api/session` | Usuário e token CSRF |
 | POST | `/api/logout` | Invalida sessão |
 | GET | `/api/dashboard` | products, units, value_cents, low |

diff --git a/docs/documentacao-academica.md b/docs/documentacao-academica.md
@@ -12,7 +12,7 @@ Oferecer uma ferramenta local, simples e verificável para o administrador de es
 
 ## Engenharia de requisitos e casos de uso
 
-Foram definidos 12 requisitos funcionais e 12 não funcionais em [requisitos](requisitos.md), com prioridades, entradas, processamento, saídas, regras e critérios verificáveis. Os [12 casos de uso](casos-de-uso.md) descrevem pré-condições, fluxo principal, alternativas, exceções e pós-condições. O ator único é o administrador de estoque.
+Foram definidos 13 requisitos funcionais e 12 não funcionais em [requisitos](requisitos.md), com prioridades, entradas, processamento, saídas, regras e critérios verificáveis. Os [13 casos de uso](casos-de-uso.md) descrevem pré-condições, fluxo principal, alternativas, exceções e pós-condições. Os atores são o usuário de estoque (mesmas permissões do administrador) e o novo usuário que cadastra conta local.
 
 ## Modelagem e arquitetura
 
@@ -48,7 +48,7 @@ O [backlog](../backlog/backlog.csv) relaciona requisitos e tarefas, com status, 
 
 ## Considerações finais
 
-O MVP realiza o ciclo de catálogo e estoque com persistência e trilha de movimentações, acompanhado de testes e materiais de demonstração. A validação acadêmica final depende do PDF, template, revisão dos integrantes e confirmação da apresentação. Evoluções possíveis após o escopo atual incluem perfis de usuário, paginação, múltiplos depósitos, incorporação do arquivo original da marca e recuperação de senha; não são funcionalidades entregues.
+O MVP realiza o ciclo de catálogo e estoque com persistência e trilha de movimentações, acompanhado de testes e materiais de demonstração. A validação acadêmica final depende do PDF, template, revisão dos integrantes e confirmação da apresentação. Evoluções possíveis após o escopo atual incluem perfis de permissão, paginação, múltiplos depósitos, incorporação do arquivo original da marca e recuperação de senha; não são funcionalidades entregues.
 
 ## Referências técnicas
 
@@ -69,8 +69,8 @@ Não foram inventados artigos, entrevistas, integrantes, parecer do professor ou
 |---|---|---|
 | Software executável e persistente | src/, database/, README, testes | Implementado e validado localmente |
 | Código completo e organizado | Separação domínio/HTTP/interface | Preparado no checkout |
-| ≥8 requisitos funcionais e RNF | 12 RF e 12 RNF | Documentado |
-| Casos de uso e fluxos alternativos | 12 UC | Documentado |
+| ≥8 requisitos funcionais e RNF | 13 RF e 12 RNF | Documentado |
+| Casos de uso e fluxos alternativos | 13 UC | Documentado |
 | UML e modelo de dados | Fontes PlantUML/Mermaid e esquema SQLite | Produzido para o MVP |
 | Interface e protótipos | Capturas desktop/mobile | Produzido |
 | Testes automatizados | unittest e Playwright | Resultado no relatório de testes |
